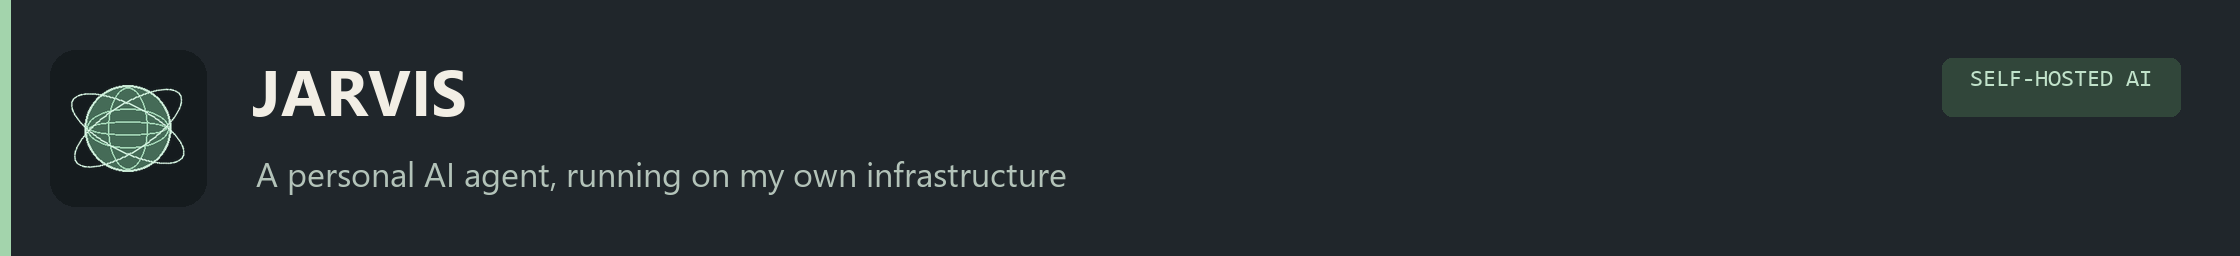
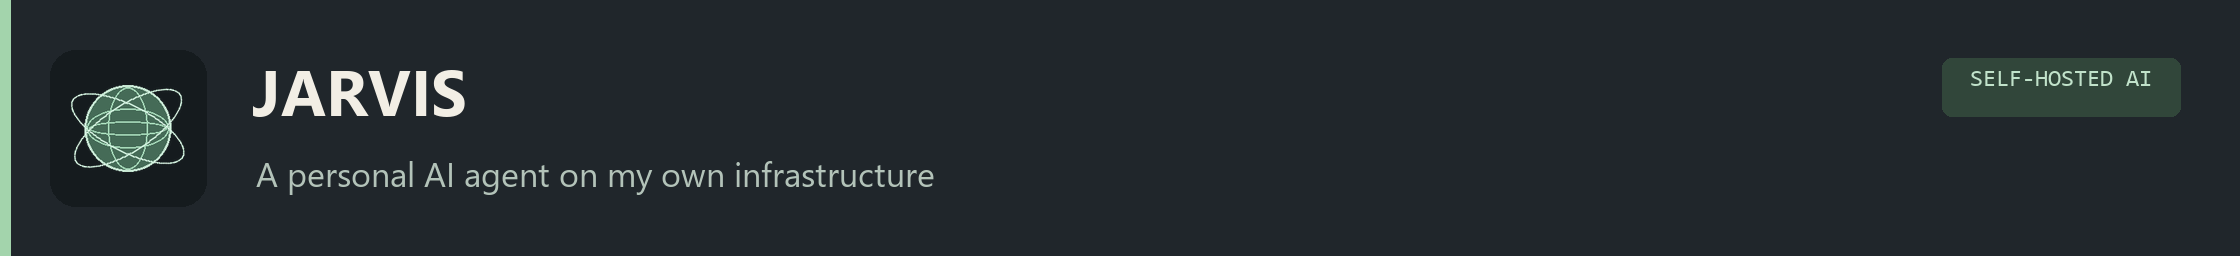
Keep project marks and toolkit readable on narrow screens

Changed region(s): [[0.25, 0.625, 0.5, 0.75]]

diff --git a/scripts/build-readme-assets.py b/scripts/build-readme-assets.py
@@ -41,11 +41,11 @@ def jarvis_mark():
         im.alpha_composite(ring.rotate(angle, resample=Image.Resampling.BICUBIC))
     im.save(ASSETS / 'brands/jarvis.png')
 
-def project_header(name, title, subtitle, category, light=False):
+def project_header(name, title, subtitle, category, light=False, width=1120):
     bg = '#eae4d8' if light else '#20262b'
     ink = '#262c29' if light else '#f2eee5'
     secondary = '#576259' if light else '#b3c3b9'
-    im = Image.new('RGB', (1120 * SCALE, 128 * SCALE), bg)
+    im = Image.new('RGB', (width * SCALE, 128 * SCALE), bg)
     d = ImageDraw.Draw(im)
     rect(d, (0, 0, 5, 128), '#a3d4ac')
     rect(d, (25, 25, 103, 103), '#faf7ef' if light else '#151b1e', radius=13)
@@ -59,12 +59,29 @@ def project_header(name, title, subtitle, category, light=False):
     text(d, (126, 23), title, 32, ink, bold=True)
     text(d, (128, 75), subtitle, 17, secondary)
     # Descriptive category, not an unverified uptime or activity status.
-    f = font(12, mono=True)
-    width = d.textbbox((0, 0), category, font=f)[2] / SCALE + 28
-    x = 1090 - width
-    rect(d, (x, 29, 1090, 58), '#d8e2d4' if light else '#31463a', radius=5)
-    text(d, (x + 14, 34), category, 12, '#3c5c44' if light else '#c1e2ca', mono=True)
-    im.save(ASSETS / f'projects/{name}.png', optimize=True)
+    if width > 800:
+        f = font(12, mono=True)
+        badge_width = d.textbbox((0, 0), category, font=f)[2] / SCALE + 28
+        x = width - 30 - badge_width
+        rect(d, (x, 29, width - 30, 58), '#d8e2d4' if light else '#31463a', radius=5)
+        text(d, (x + 14, 34), category, 12, '#3c5c44' if light else '#c1e2ca', mono=True)
+    suffix = '-compact' if width < 800 else ''
+    im.save(ASSETS / f'projects/{name}{suffix}.png', optimize=True)
+
+def compact_toolkit():
+    rows = [
+        [('typescript', 'TypeScript'), ('react', 'React'), ('nextdotjs', 'Next.js'), ('python', 'Python')],
+        [('docker', 'Docker'), ('supabase', 'Supabase'), ('modelcontextprotocol', 'MCP')],
+    ]
+    marks = []
+    for row, items in enumerate(rows):
+        for i, (name, label) in enumerate(items):
+            x = (i + 1) * 640 / (len(items) + 1)
+            y = 22 + row * 112
+            icon = ICONS[name]
+            paths = ''.join(f'<path d="{escape(p)}"/>' for p in icon['paths'])
+            marks.append(f'<svg x="{x-22}" y="{y}" width="44" height="44" viewBox="{icon["viewBox"]}" fill="#bed2c2">{paths}</svg><text x="{x}" y="{y+73}" text-anchor="middle" font-family="Consolas,monospace" font-size="16" fill="#e4e9e5">{label}</text>')
+    (ASSETS / 'technology-stack-compact.svg').write_text('<svg xmlns="http://www.w3.org/2000/svg" width="640" height="240" viewBox="0 0 640 240"><title>TypeScript, React, Next.js, Python, Docker, Supabase and MCP</title><rect width="640" height="240" rx="6" fill="#1b2025"/>' + ''.join(marks) + '</svg>', encoding='utf-8')
 
 def badge(filename, label, mark=None):
     icon = ''
@@ -91,9 +108,11 @@ for directory in ['projects', 'badges', 'brands']:
     (ASSETS / directory).mkdir(parents=True, exist_ok=True)
 ICONS = json.loads((ASSETS / 'technology-icons.json').read_text(encoding='utf-8'))
 jarvis_mark()
-project_header('saleshow', 'Saleshow.app', 'Architecture, APIs and product delivery', 'B2B SAAS / LATAM', light=True)
-project_header('queueup', 'QueueUp.quest', 'Payments, players and community integrations', 'GAMING PLATFORM')
-project_header('jarvis', 'JARVIS', 'A personal AI agent, running on my own infrastructure', 'SELF-HOSTED AI')
+for width in [1120, 600]:
+    project_header('saleshow', 'Saleshow.app', 'Architecture, APIs and product delivery', 'B2B SAAS / LATAM', light=True, width=width)
+    project_header('queueup', 'QueueUp.quest', 'Payments, players and community integrations', 'GAMING PLATFORM', width=width)
+    project_header('jarvis', 'JARVIS', 'A personal AI agent on my own infrastructure', 'SELF-HOSTED AI', width=width)
+compact_toolkit()
 for filename, label, mark in [
     ('typescript', 'TypeScript', 'typescript'), ('nextjs', 'Next.js', 'nextdotjs'),
     ('supabase', 'Supabase', 'supabase'), ('docker', 'Docker', 'docker'),
@@ -105,4 +124,4 @@ for filename, label, mark in [
 ]:
     badge(filename, label, mark)
 portfolio_badge()
-print('Generated 3 project headers, 13 badges and JARVIS mark.')
+print('Generated desktop/compact project headers, responsive toolkit, 13 badges and JARVIS mark.')

diff --git a/README.md b/README.md
@@ -13,7 +13,7 @@ I build and operate software from requirements to production. Co-founder at Fenc
 
 ## Selected work
 
-<h3><a href="https://saleshow.app"><img src="./assets/projects/saleshow.png" alt="Saleshow.app — B2B SaaS for LATAM. Architecture, APIs and product delivery." width="1120"></a></h3>
+<h3><a href="https://saleshow.app"><picture><source media="(max-width: 800px)" srcset="./assets/projects/saleshow-compact.png"><img src="./assets/projects/saleshow.png" alt="Saleshow.app — B2B SaaS for LATAM. Architecture, APIs and product delivery." width="1120"></picture></a></h3>
 
 B2B SaaS for LATAM clients. Owned application architecture, backend APIs, database workflows, deployment and production support.
 
@@ -23,7 +23,7 @@ B2B SaaS for LATAM clients. Owned application architecture, backend APIs, databa
   <img src="./assets/badges/delivery.svg" alt="Deployment" height="30">
 </p>
 
-<h3><a href="https://queueup.quest"><img src="./assets/projects/queueup.png" alt="QueueUp.quest — gaming platform. Payments, players and community integrations." width="1120"></a></h3>
+<h3><a href="https://queueup.quest"><picture><source media="(max-width: 800px)" srcset="./assets/projects/queueup-compact.png"><img src="./assets/projects/queueup.png" alt="QueueUp.quest — gaming platform. Payments, players and community integrations." width="1120"></picture></a></h3>
 
 Full-stack contributions to a gaming platform, including payment and community integrations. Built with Next.js, TypeScript, Supabase and Stripe.
 
@@ -34,7 +34,7 @@ Full-stack contributions to a gaming platform, including payment and community i
   <img src="./assets/badges/stripe.svg" alt="Stripe" height="30">
 </p>
 
-<h3><img src="./assets/projects/jarvis.png" alt="JARVIS — self-hosted AI agent. Personal AI infrastructure lab." width="1120"></h3>
+<h3><picture><source media="(max-width: 800px)" srcset="./assets/projects/jarvis-compact.png"><img src="./assets/projects/jarvis.png" alt="JARVIS — self-hosted AI agent. Personal AI infrastructure lab." width="1120"></picture></h3>
 
 My self-hosted AI agent, JARVIS, runs on a dedicated Mini PC with Docker and Coolify. MCP integrations connect the agent to isolated development resources and deployment tools with scoped access.
 
@@ -46,4 +46,7 @@ My self-hosted AI agent, JARVIS, runs on a dedicated Mini PC with Docker and Coo
 
 ## Core toolkit
 
-<img src="./assets/technology-stack.svg" alt="TypeScript, React, Next.js, Python, Docker, Supabase and MCP" width="1120">
+<picture>
+  <source media="(max-width: 800px)" srcset="./assets/technology-stack-compact.svg">
+  <img src="./assets/technology-stack.svg" alt="TypeScript, React, Next.js, Python, Docker, Supabase and MCP" width="1120">
+</picture>

diff --git a/assets/ASSET-SOURCES.md b/assets/ASSET-SOURCES.md
@@ -20,3 +20,5 @@ python scripts/build-readme-assets.py
 
 The script uses locally installed Segoe UI on Windows or DejaVu Sans on Linux.
 The existing banner and technology strip are preserved.
+Compact project headers and a two-row toolkit are selected below 800 px to keep
+the logos and names readable on narrow displays.
